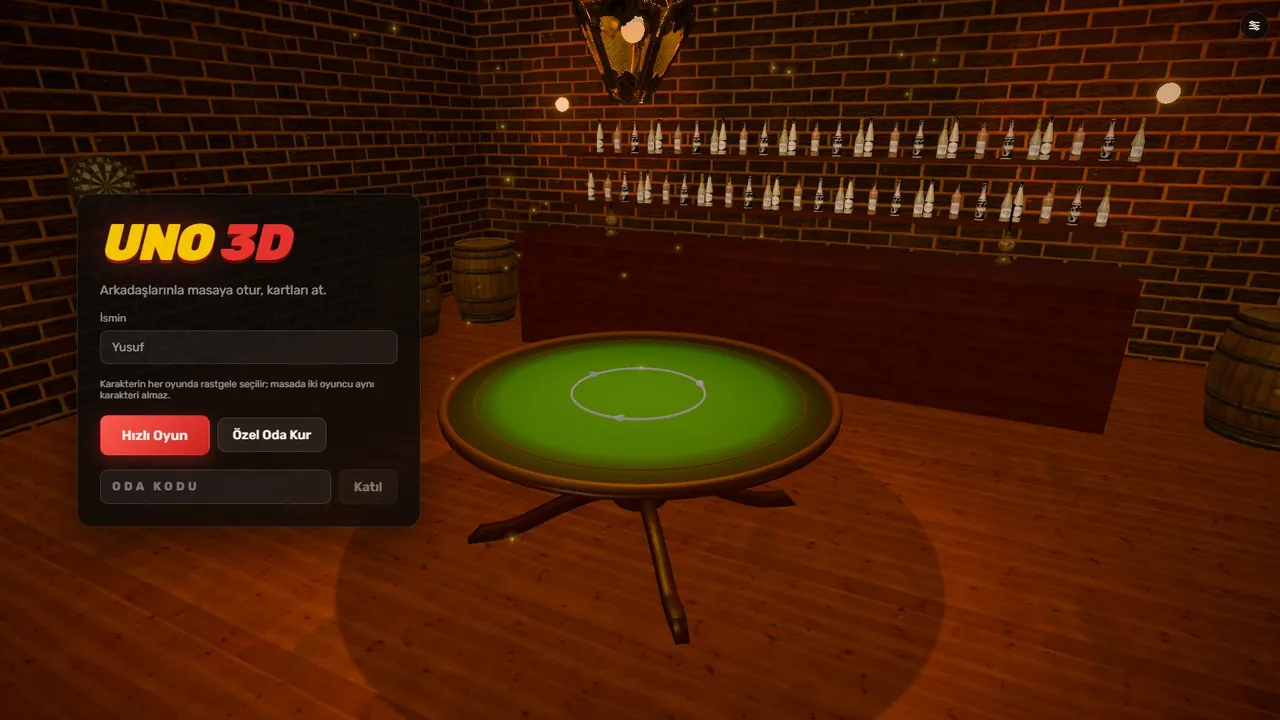
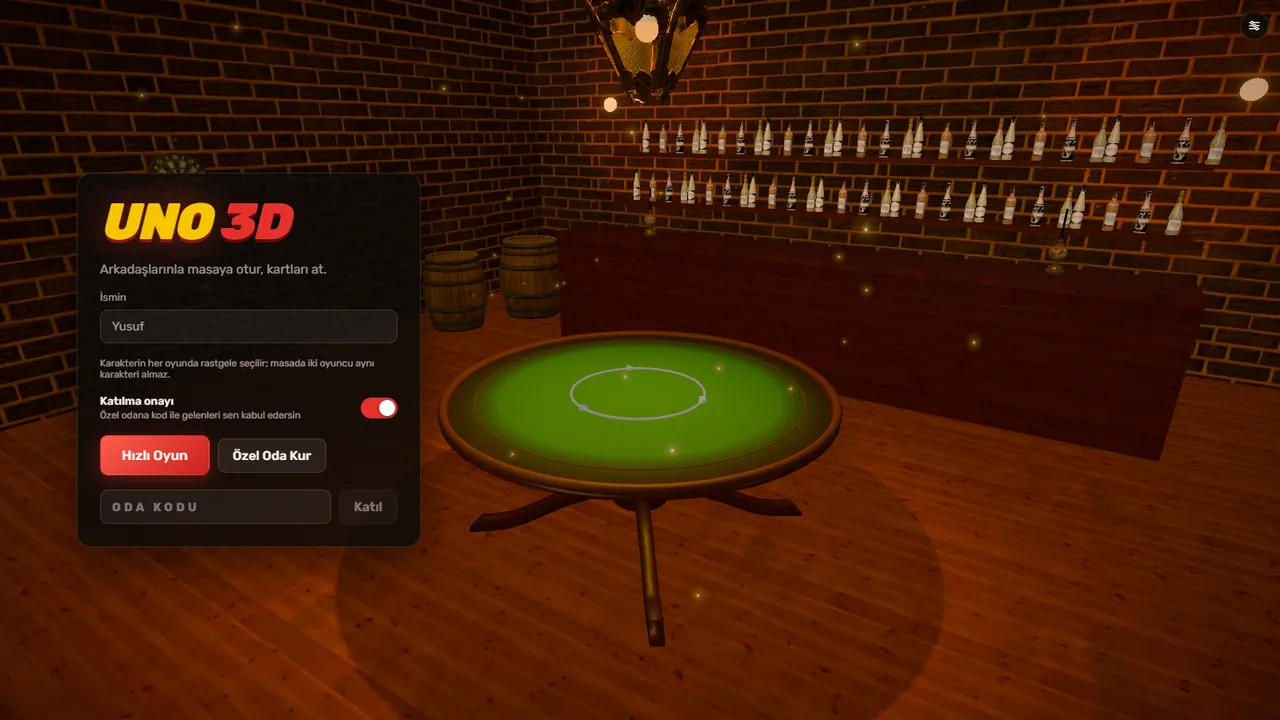
README: giriş ekranı görüntüsü ve katılma onayı

diff --git a/README.md b/README.md
@@ -34,7 +34,7 @@ Tarayıcıda oynanan, 3D bir masada geçen online UNO. Karakterler gerçek anima
 - 👋 **Emote'lar.** El salla, gül, alkışla, masaya vur, dans et... Karakterin animasyonu masadaki herkese görünür.
 - 🎙 **Sesli sohbet ve yazılı sohbet.** Mikrofonu aç, konuşan oyuncunun ağzı hareket eder.
 - 🏝 **10 farklı masa teması.** Loş bir meyhaneden bulutların üstüne, uçağın kanadından tekne gezisine kadar.
-- ⚙ **Ev kuralları.** +2 / +4 üst üste atılabilir (ceza birikir), yeni gelenlerin odaya katılmasını oda sahibi onaylar; her hamle için 30 saniye süre vardır.
+- ⚙ **Ev kuralları.** +2 / +4 üst üste atılabilir (ceza birikir), yeni gelenlerin odaya katılmasını oda sahibi onaylar (giriş ekranından oda kurulmadan önce açılır); her hamle için 30 saniye süre vardır.
 - 🚀 **Akıcı.** Grafik kalitesi cihaza göre otomatik ayarlanır; modeller ve gökyüzü ana ekrandayken arka planda yüklenir.
 
 ---
@@ -43,7 +43,7 @@ Tarayıcıda oynanan, 3D bir masada geçen online UNO. Karakterler gerçek anima
 
 ### 1. Adını yaz, masaya otur
 
-Ana ekranda adını yaz. **Hızlı Oyun** seni hazır bir masaya oturtur, **Özel Oda Kur** sadece senin ve arkadaşlarının olduğu bir oda açar. Arkadaşından gelen oda koduyla **Katıl** da diyebilirsin.
+Ana ekranda adını yaz. **Hızlı Oyun** seni hazır bir masaya oturtur, **Özel Oda Kur** sadece senin ve arkadaşlarının olduğu bir oda açar. Arkadaşından gelen oda koduyla **Katıl** da diyebilirsin. **Katılma onayı** açıksa, özel odana kodla gelenler sen kabul etmeden masaya oturamaz.
 
 ![Ana ekran](docs/screenshots/home.webp)
 
